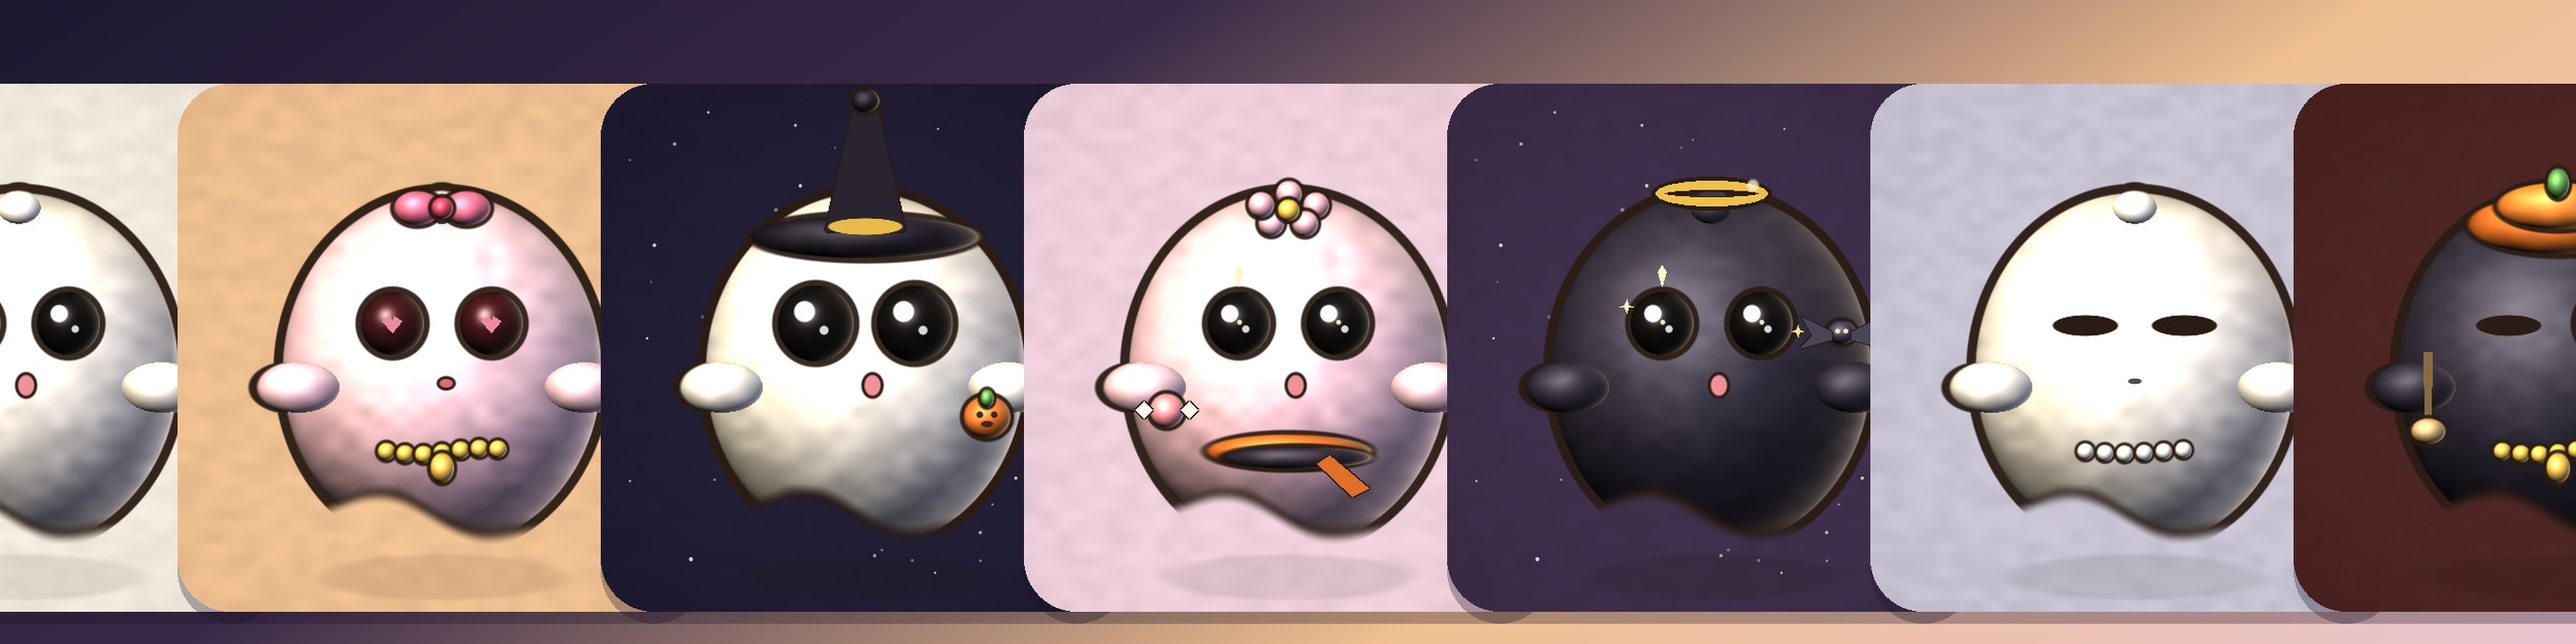
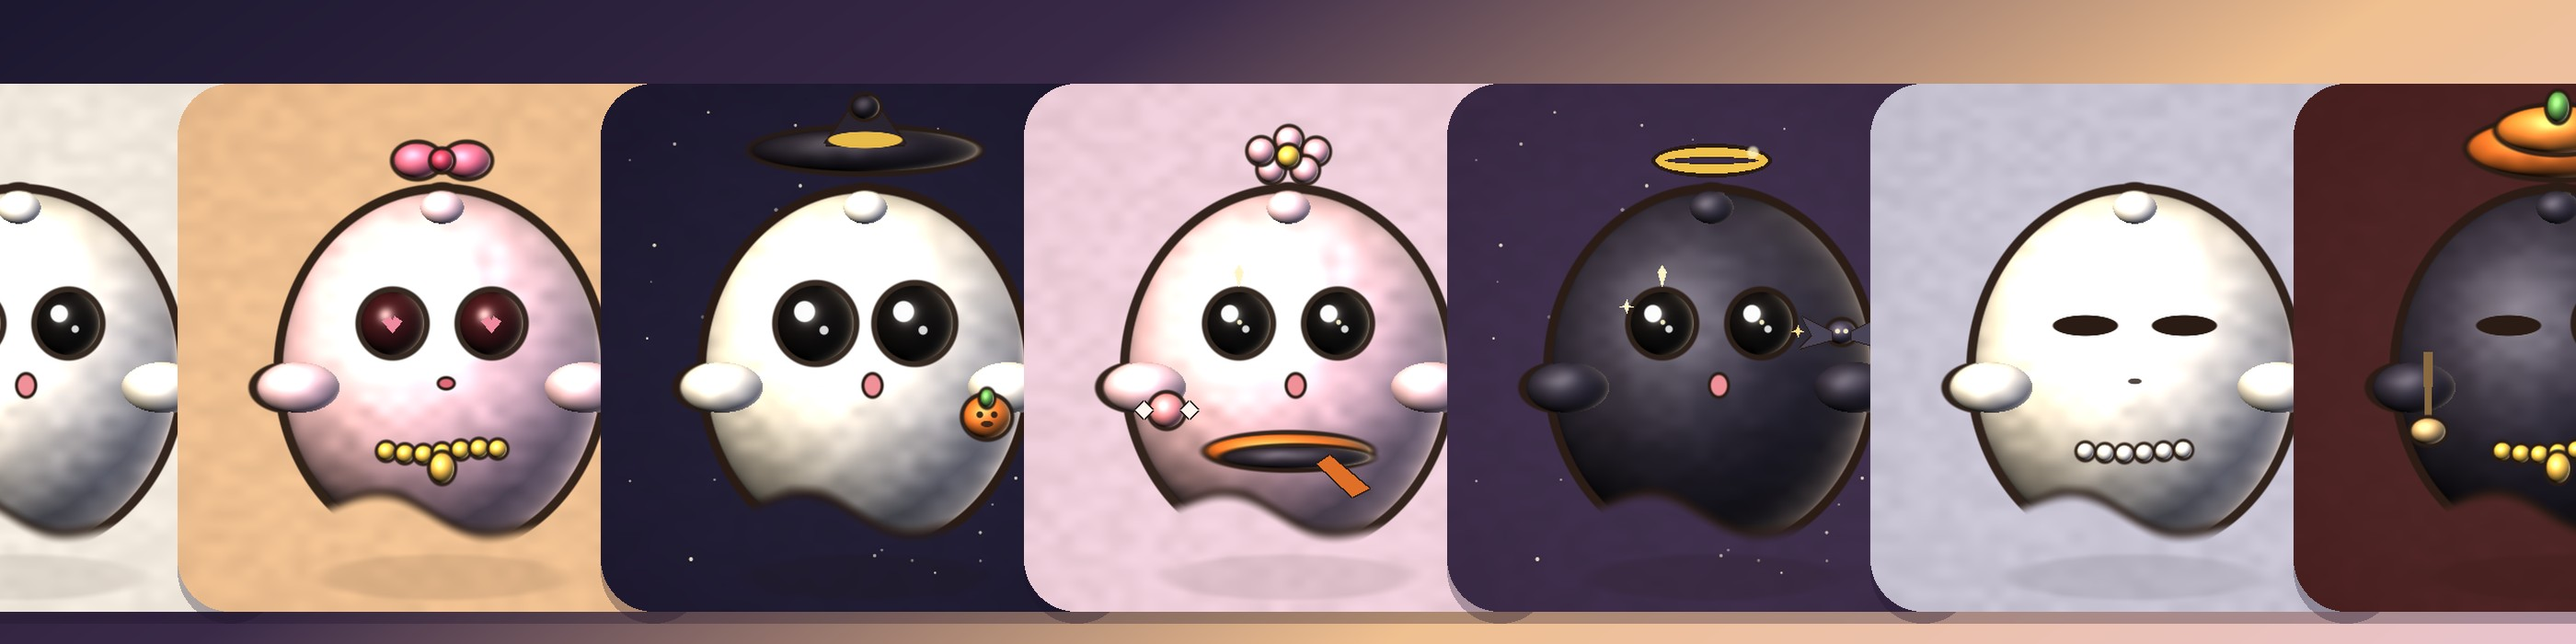
Raise Shook'um hats onto the crown without rebaking hatless tokens.
Brimmed hats were sitting in the forehead; this lifts each hat kind on its own and shortens tall cones so they stay on the canvas.

diff --git a/src/data/shookum-gallery.ts b/src/data/shookum-gallery.ts
@@ -9,7 +9,7 @@ export const shookumSamples: ShookumSample[] = [
   {
     id: 1,
     name: "Shook'um #1",
-    image: "/shookums-preview/1.gif?v=1",
+    image: "/shookums-preview/1.gif?v=3",
     attributes: [
       { trait_type: "Night", value: "Parchment" },
       { trait_type: "Sheet", value: "Classic" },
@@ -22,7 +22,7 @@ export const shookumSamples: ShookumSample[] = [
   {
     id: 2,
     name: "Shook'um #2",
-    image: "/shookums-preview/2.gif?v=1",
+    image: "/shookums-preview/2.gif?v=3",
     attributes: [
       { trait_type: "Night", value: "Pumpkin" },
       { trait_type: "Sheet", value: "Blush" },
@@ -35,7 +35,7 @@ export const shookumSamples: ShookumSample[] = [
   {
     id: 3,
     name: "Shook'um #3",
-    image: "/shookums-preview/3.gif?v=1",
+    image: "/shookums-preview/3.gif?v=3",
     attributes: [
       { trait_type: "Night", value: "Midnight" },
       { trait_type: "Sheet", value: "Classic" },
@@ -48,7 +48,7 @@ export const shookumSamples: ShookumSample[] = [
   {
     id: 4,
     name: "Shook'um #4",
-    image: "/shookums-preview/4.gif?v=1",
+    image: "/shookums-preview/4.gif?v=3",
     attributes: [
       { trait_type: "Night", value: "Candy" },
       { trait_type: "Sheet", value: "Blush" },
@@ -61,7 +61,7 @@ export const shookumSamples: ShookumSample[] = [
   {
     id: 5,
     name: "Shook'um #5",
-    image: "/shookums-preview/5.gif?v=1",
+    image: "/shookums-preview/5.gif?v=3",
     attributes: [
       { trait_type: "Night", value: "Dusk" },
       { trait_type: "Sheet", value: "Void" },
@@ -74,7 +74,7 @@ export const shookumSamples: ShookumSample[] = [
   {
     id: 6,
     name: "Shook'um #6",
-    image: "/shookums-preview/6.gif?v=1",
+    image: "/shookums-preview/6.gif?v=3",
     attributes: [
       { trait_type: "Night", value: "Fog" },
       { trait_type: "Sheet", value: "Classic" },
@@ -87,7 +87,7 @@ export const shookumSamples: ShookumSample[] = [
   {
     id: 7,
     name: "Shook'um #7",
-    image: "/shookums-preview/7.gif?v=1",
+    image: "/shookums-preview/7.gif?v=3",
     attributes: [
       { trait_type: "Night", value: "Blood Moon" },
       { trait_type: "Sheet", value: "Void" },
@@ -100,7 +100,7 @@ export const shookumSamples: ShookumSample[] = [
   {
     id: 8,
     name: "Shook'um #8",
-    image: "/shookums-preview/8.gif?v=1",
+    image: "/shookums-preview/8.gif?v=3",
     attributes: [
       { trait_type: "Night", value: "Graveyard" },
       { trait_type: "Sheet", value: "Classic" },

diff --git a/src/app/shookums/gallery/page.tsx b/src/app/shookums/gallery/page.tsx
@@ -55,7 +55,7 @@ export default function ShookumsGalleryPage() {
         {extraPreviews.map((id) => (
           <article key={id} className="overflow-hidden rounded-2xl border bg-card">
             <ApngImage
-              src={`/shookums-preview/${id}.gif?v=1`}
+              src={`/shookums-preview/${id}.gif?v=3`}
               alt={`Shook'um #${id}`}
               width={512}
               height={512}

diff --git a/src/data/shookum-traits.ts b/src/data/shookum-traits.ts
@@ -14,7 +14,7 @@ export type ShookumTraitCategory = {
 };
 
 /** Bump when APNG layers change so the studio does not keep a stale loop. */
-export const SHOOKUM_ART_VERSION = "shookums-v1";
+export const SHOOKUM_ART_VERSION = "shookums-v3";
 
 export const SHOOKUM_FRAMES = 12;
 export const SHOOKUM_DURATION_MS = 90;

diff --git a/scripts/build_shookums.py b/scripts/build_shookums.py
@@ -595,21 +595,37 @@ def paint_mug(kind: str, frame: int) -> np.ndarray:
     return dst
 
 
+# Hat-layer only. `y` is the hat origin; each kind draws its brim/base below that.
+# Brimmed hats need more lift so the brim perches on the crown instead of the
+# forehead. Tall cones are drawn shorter so the tip stays on the 512 canvas.
+HAT_LIFT = {
+    "witch": 84.0,
+    "wizard": 74.0,
+    "pumpkin": 74.0,
+    "halo": 32.0,
+    "party": 38.0,
+    "crown": 52.0,
+    "bow": 46.0,
+    "flower": 52.0,
+    "cat": 42.0,
+}
+
+
 def paint_hat(kind: str, frame: int) -> np.ndarray:
     dst = blank()
     if kind == "none":
         return dst
     dy = hover_y(frame)
-    y = CY - RY + 8 + dy
+    y = CY - RY + 8 - HAT_LIFT.get(kind, 24.0) + dy
     if kind == "witch":
         volume_ball(dst, CX, y + 34, 108, 20, rgb("1e1a24"), width=5.2, spec=0.08, shininess=8.0, sss=0.04)
         outlined_poly(
             dst,
-            [(CX - 38, y + 28), (CX + 38, y + 28), (CX + 10, y - 96), (CX - 10, y - 96)],
+            [(CX - 38, y + 28), (CX + 38, y + 28), (CX + 14, y - 6), (CX - 14, y - 6)],
             rgb("2a2430"),
             width=5.0,
         )
-        volume_ball(dst, CX, y - 98, 13, 11, rgb("1e1a24"), width=3.2, spec=0.08, shininess=8.0, sss=0.04)
+        volume_ball(dst, CX, y - 8, 13, 11, rgb("1e1a24"), width=3.2, spec=0.08, shininess=8.0, sss=0.04)
         ellipse(dst, CX, y + 24, 36, 8, rgb("f0c14a"), 0.96, soft=1.4)
     elif kind == "pumpkin":
         volume_ball(dst, CX, y + 22, 86, 28, rgb("e07028"), width=4.8, spec=0.18, shininess=14.0)
@@ -626,11 +642,11 @@ def paint_hat(kind: str, frame: int) -> np.ndarray:
     elif kind == "party":
         outlined_poly(
             dst,
-            [(CX - 36, y + 20), (CX + 36, y + 20), (CX, y - 70)],
+            [(CX - 36, y + 20), (CX + 36, y + 20), (CX, y - 52)],
             rgb("e05a6c"),
             width=4.2,
         )
-        volume_ball(dst, CX, y - 72, 8, 8, rgb("f0c14a"), width=2.8, spec=0.34, shininess=22.0)
+        volume_ball(dst, CX, y - 54, 8, 8, rgb("f0c14a"), width=2.8, spec=0.34, shininess=22.0)
         for i, col in enumerate((rgb("f0c14a"), rgb("4a8ad4"), rgb("f0c14a"))):
             disc(dst, CX - 14 + i * 14, y + 8, 5.5, col, 0.95, soft=1.0)
     elif kind == "crown":
@@ -675,11 +691,11 @@ def paint_hat(kind: str, frame: int) -> np.ndarray:
         volume_ball(dst, CX, y + 26, 88, 16, rgb("4a2e68"), width=4.4, spec=0.14, shininess=12.0)
         outlined_poly(
             dst,
-            [(CX - 16, y + 20), (CX + 16, y + 20), (CX + 4, y - 86), (CX - 4, y - 86)],
+            [(CX - 16, y + 20), (CX + 16, y + 20), (CX + 5, y - 30), (CX - 5, y - 30)],
             rgb("5a3a7a"),
             width=4.2,
         )
-        paint_star(dst, CX + 8, y - 24, 7.0, rgb("f0c14a"))
+        paint_star(dst, CX + 8, y - 12, 7.0, rgb("f0c14a"))
     elif kind == "flower":
         for i in range(5):
             ang = i * (2.0 * math.pi / 5.0) - 0.3
@@ -937,9 +953,11 @@ def name_of(category: str, trait_id: str) -> str:
     return trait_id
 
 
-def build_traits() -> None:
+def build_traits(only: str | None = None) -> None:
     TRAIT_DIR.mkdir(parents=True, exist_ok=True)
     for category, traits in TRAIT_SPEC.items():
+        if only and category != only:
+            continue
         for trait_id, _name, _rarity in traits:
             if trait_id == "none":
                 continue
@@ -1100,9 +1118,19 @@ def build_brand() -> None:
 def main() -> None:
     parser = argparse.ArgumentParser()
     parser.add_argument("--brand-only", action="store_true", help="Rebuild logo, banners, and listing copy")
+    parser.add_argument("--hats-only", action="store_true", help="Rebuild hat layers, then samples and brand")
     args = parser.parse_args()
     if args.brand_only:
         print("Writing Halloween Shook'ums brand kit…")
+        build_brand()
+        print("Done.")
+        return
+    if args.hats_only:
+        print("Rebuilding Halloween Shook'ums hat layers…")
+        build_traits(only="hat")
+        print("Compositing sample GIF tokens…")
+        build_samples()
+        print("Writing brand…")
         build_brand()
         print("Done.")
         return

diff --git a/scripts/generate_shookums.py b/scripts/generate_shookums.py
@@ -50,6 +50,7 @@ OPENSEA_LIMIT_BYTES = 10 * 1024 * 1024 * 1024
 
 _CACHE: dict[tuple[str, str], list[Image.Image]] | None = None
 _FORCE = False
+_HATS_ONLY = False
 
 
 def pick(category: str, rng: random.Random) -> str:
@@ -101,9 +102,10 @@ def load_cache() -> dict[tuple[str, str], list[Image.Image]]:
     return cache
 
 
-def init_worker(force: bool = False) -> None:
-    global _CACHE, _FORCE
+def init_worker(force: bool = False, hats_only: bool = False) -> None:
+    global _CACHE, _FORCE, _HATS_ONLY
     _FORCE = force
+    _HATS_ONLY = hats_only
     _CACHE = load_cache()
 
 
@@ -180,7 +182,13 @@ def bake_one(job: tuple[int, dict[str, str]]) -> tuple[int, dict, int]:
     token_id, selection = job
     gif_dest = GIF_DIR / f"{token_id}.gif"
     meta = token_meta(token_id, selection)
-    if _FORCE or traits_newer_than(gif_dest):
+    missing = not gif_dest.exists() or gif_dest.stat().st_size == 0
+    has_hat = selection.get("hat", "none") != "none"
+    if _HATS_ONLY:
+        rebuild = missing or has_hat
+    else:
+        rebuild = _FORCE or traits_newer_than(gif_dest)
+    if rebuild:
         frames = compose_cached(selection)
         save_loop_gif(frames, gif_dest, DURATION_MS, colors=GIF_COLORS)
     (JSON_DIR / f"{token_id}.json").write_text(json.dumps(meta) + "\n", encoding="utf-8")
@@ -243,6 +251,7 @@ def main() -> None:
     parser.add_argument("--all", action="store_true", help=f"Bake all {TOTAL} tokens")
     parser.add_argument("--count", type=int, default=16)
     parser.add_argument("--force", action="store_true", help="Rebuild GIFs even if they already exist")
+    parser.add_argument("--hats-only", action="store_true", help="Rebuild only tokens that wear a hat")
     parser.add_argument("--workers", type=int, default=max(1, min(6, cpu_count() or 1)))
     args = parser.parse_args()
     global _FORCE
@@ -261,8 +270,15 @@ def main() -> None:
     total_bytes = 0
     done = 0
 
-    print(f"Baking {count} Halloween Shook'ums tokens at {DROP_SIZE}px with {args.workers} workers…")
-    with Pool(processes=args.workers, initializer=init_worker, initargs=(args.force,)) as pool:
+    hatted = sum(1 for _id, sel in jobs if sel.get("hat", "none") != "none")
+    if args.hats_only:
+        print(
+            f"Rebaking {hatted} hatted tokens of {count} at {DROP_SIZE}px "
+            f"with {args.workers} workers (hatless GIFs stay put)…"
+        )
+    else:
+        print(f"Baking {count} Halloween Shook'ums tokens at {DROP_SIZE}px with {args.workers} workers…")
+    with Pool(processes=args.workers, initializer=init_worker, initargs=(args.force, args.hats_only)) as pool:
         for token_id, meta, nbytes in pool.imap_unordered(bake_one, jobs, chunksize=4):
             done += 1
             total_bytes += nbytes
